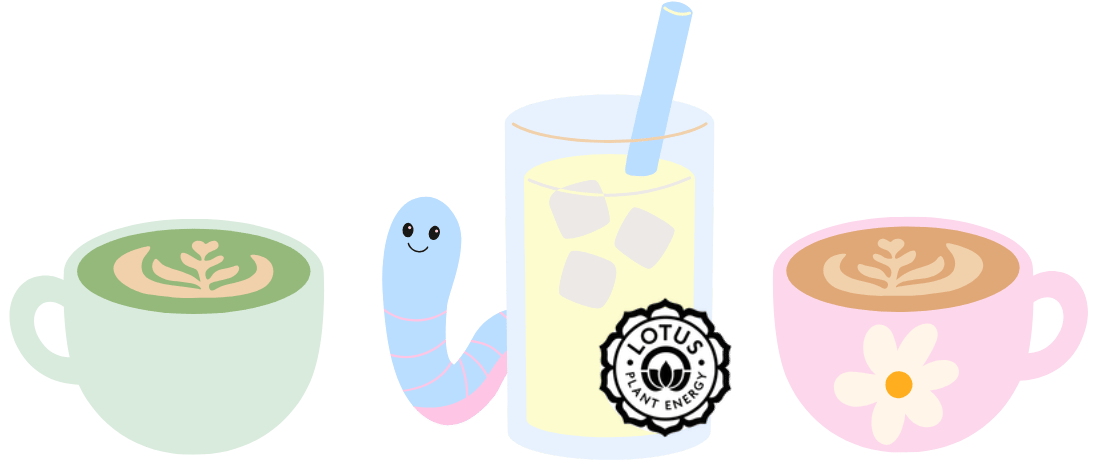
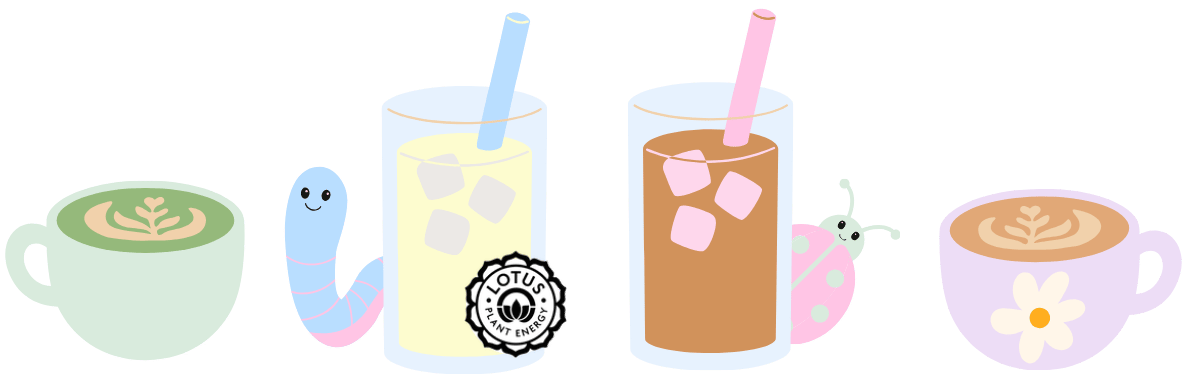
update saur flower image and link to menu

diff --git a/src/components/home/Homepage.tsx b/src/components/home/Homepage.tsx
@@ -20,7 +20,7 @@ export default function Homepage() {
         title="The Fun Bug Cafe"
         paragraph="At The Fun Bug, kick back with a delicious cup of coffee from our café while your kids have a blast in our awesome playground. Our cozy seating area is perfect for enjoying tasty snacks, so you can relax and know your little ones are having a fantastic time!"
         buttonText="View Menu"
-        buttonLink="/cafe"
+        buttonLink="/cafe#menu"
         buttonClass="bg-cafe/50 hover:bg-cafe"
         allPadding={true}
       />

diff --git a/src/components/cafe/CafeHeader.tsx b/src/components/cafe/CafeHeader.tsx
@@ -45,7 +45,7 @@ export default function CafeHeader() {
           alt="Four cups of beverages that can be found in the cafe"
           width={1140}
           height={366}
-          className="w-full"
+          className="w-full max-w-[550px]"
         />
       </div>
     </section>
